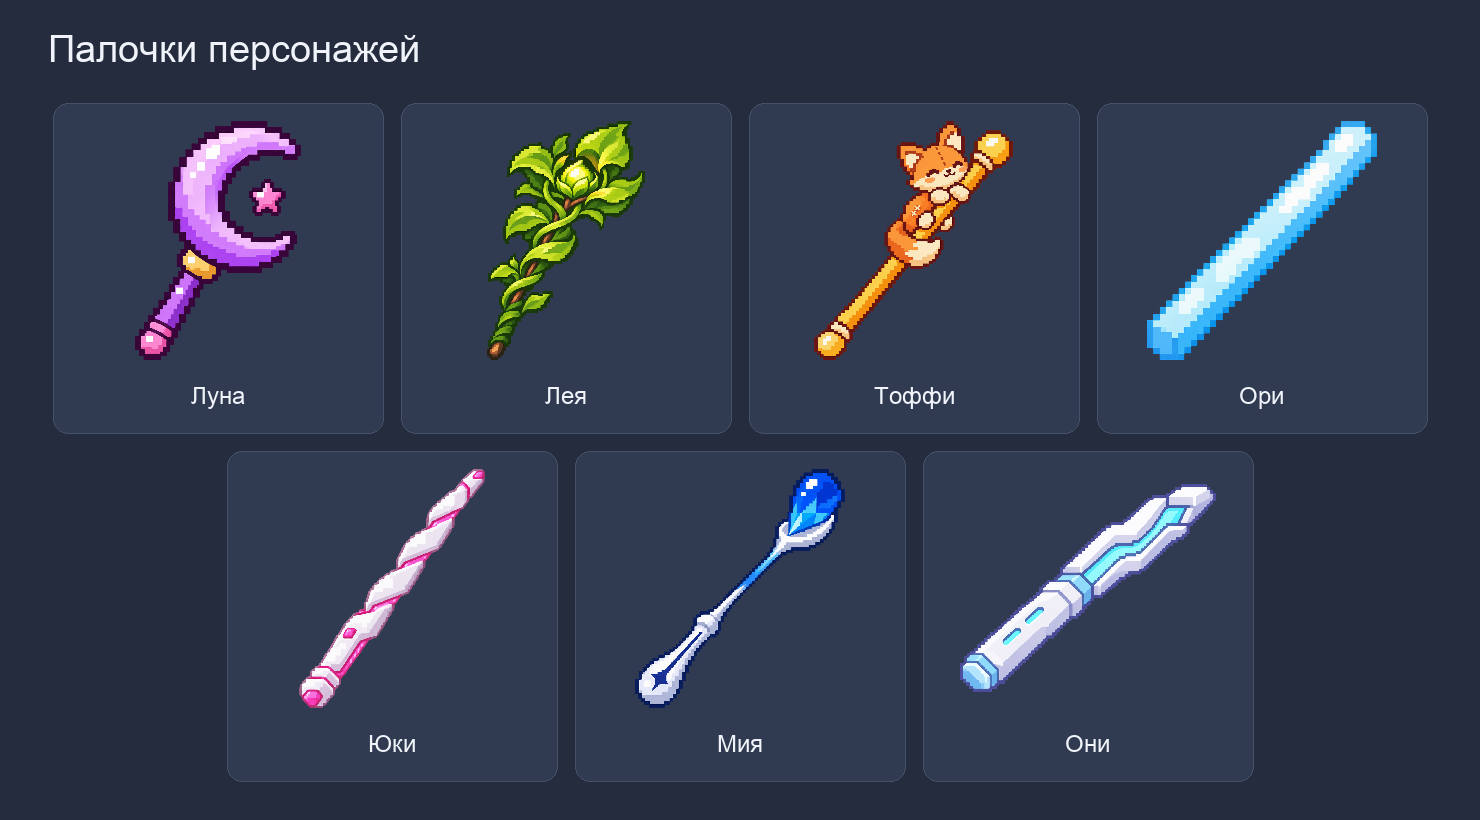
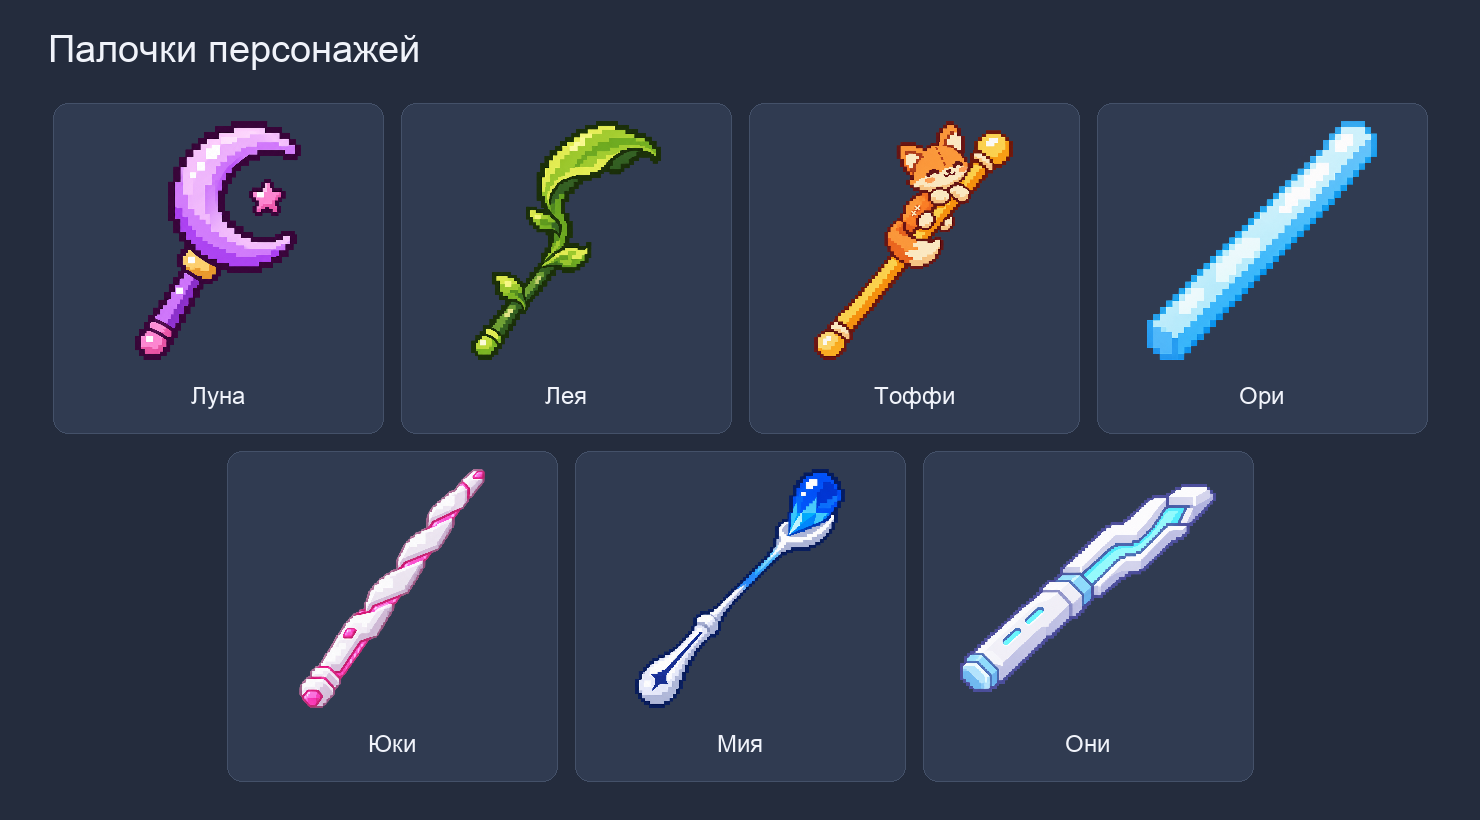
Select Leya’s original green leaf wand

Changed region(s): [[0.3108, 0.122, 0.4662, 0.4573]]

diff --git a/assets/production/wands/README.md b/assets/production/wands/README.md
@@ -1,11 +1,11 @@
 # Концепты палочек
 
-[Лист с семью палочками](previews/personal-wands.png). Палочка Луны — существующий визуальный эталон. Тоффи, Ори, Юки, Мия и Они — выбранные автором концепты. У Леи рабочий эскиз компактного посоха.
+[Лист с семью палочками](previews/personal-wands.png). Палочка Луны — существующий визуальный эталон. Лея, Тоффи, Ори, Юки, Мия и Они — выбранные автором концепты.
 
 | Персонаж | Направление |
 | --- | --- |
 | [Луна](../../approved/hud/godot/retro-ui-kit/assets/ui/pixel-v1/items/wand.png) | Сиреневый полумесяц с розовой звездой внутри. |
-| [Лея](concepts/leya.png) | Рабочий эскиз компактного посоха друида. Крупные листья окружают светящуюся почку, лианы обвивают тонкий деревянный стержень. |
+| [Лея](concepts/leya.png) | [АВТОР] Основной вариант — первый зелёный жезл. Травянистый стебель с небольшими листьями и большим изогнутым листом на конце. |
 | [Тоффи](concepts/toffi.png) | Автор выбрал жёлто-оранжевый жезл с плюшевой лисичкой на конце. Она держится за него лапками и обвивает хвостом. |
 | [Ори](concepts/ori.png) | Объёмный неоновый жезл светло-голубого цвета. Грани и торец читаются в одном материале. |
 | [Юки](concepts/yuki.png) | Белые металлические пластины соединены тонкими светящимися розовыми швами. Кончик — компактный скошенный наконечник с розовым окошком. |
@@ -16,7 +16,7 @@
 
 Общий запрос для новых концептов — один предмет целиком на прозрачном фоне, ракурс сбоку с наклоном снизу слева вверх вправо. Палочка Луны задаёт примерный размер предмета и крупную пиксельную сетку. Использовать ограниченную палитру, 3–4 ступенчатых тона и читаемый силуэт в уменьшении.
 
-- **Лея.** Короткий посох с кроной из крупных листьев разной длины, двумя вьющимися лианами и светящейся жёлто-зелёной почкой на конце. Тёплое дерево видно у основания и между витками. Блики от почки попадают на ближайшие листья.
+- **Лея.** Зелёный травянистый стебель с несколькими чередующимися листьями и одним большим изогнутым листом наверху. Мшистые тени и жёлто-зелёные блики по краям листьев.
 - **Тоффи.** Короткий медово-жёлтый жезл с открытой нижней частью для хвата. Оригинальная плюшевая лисичка обнимает верхнюю треть двумя лапками. Пушистый хвост с кремовым кончиком огибает стержень. Маленькие контрастные уши, светлые щёки, спокойная улыбка и несколько крупных пиксельных пятен.
 - **Ори.** Длинная узкая прямоугольная призма со скошенными рёбрами и видимым торцом. Ледяной светло-голубой материал светится по всей длине, включая зону хвата.
 - **Юки.** Четыре стыкующиеся белые металлические пластины, слегка смещённые по силуэту. Узкие розовые светящиеся стыки, небольшая клавиша заподлицо и холодные светлые тени. Наконечник повторяет скошенные грани корпуса с одним розовым световым окошком.
